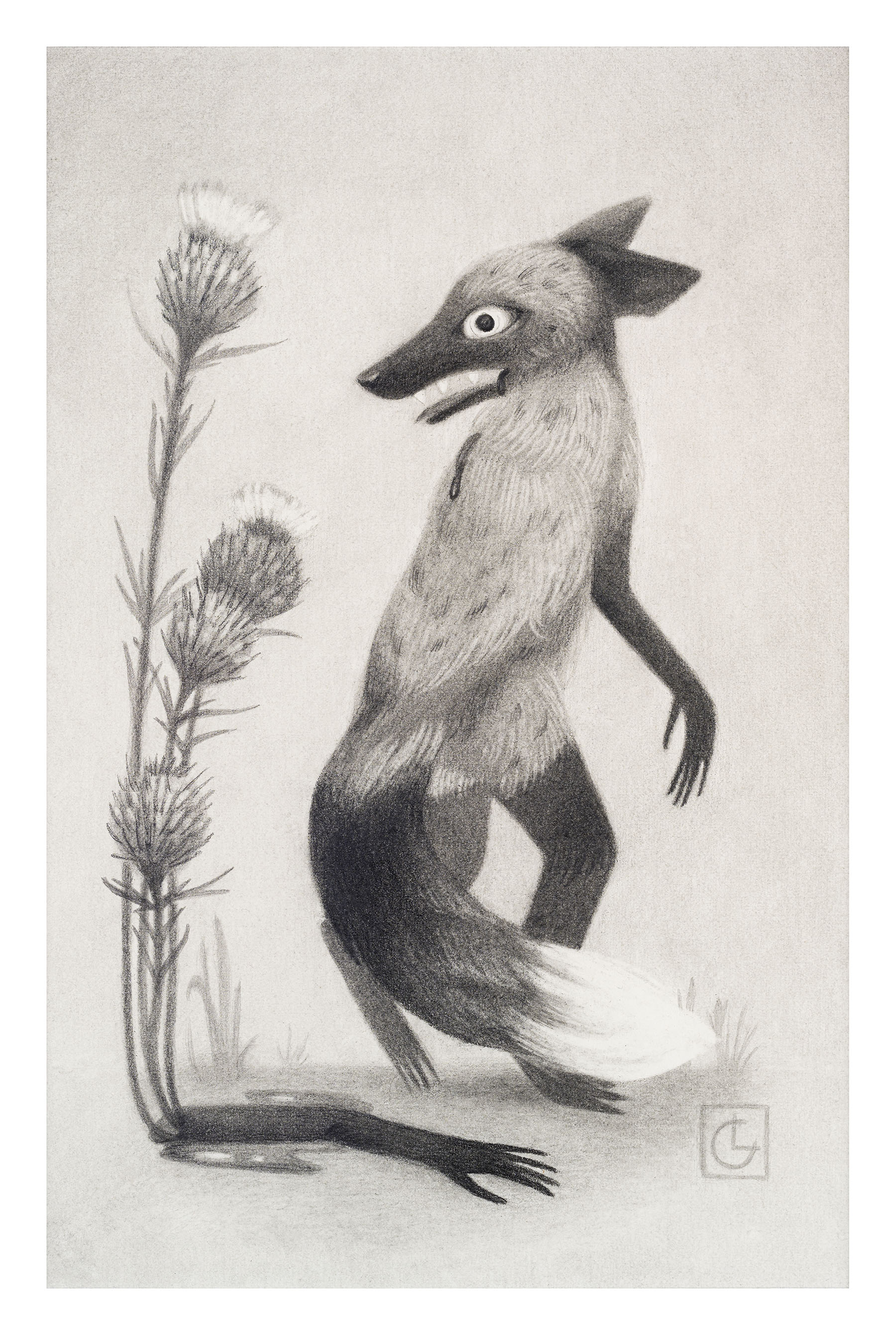
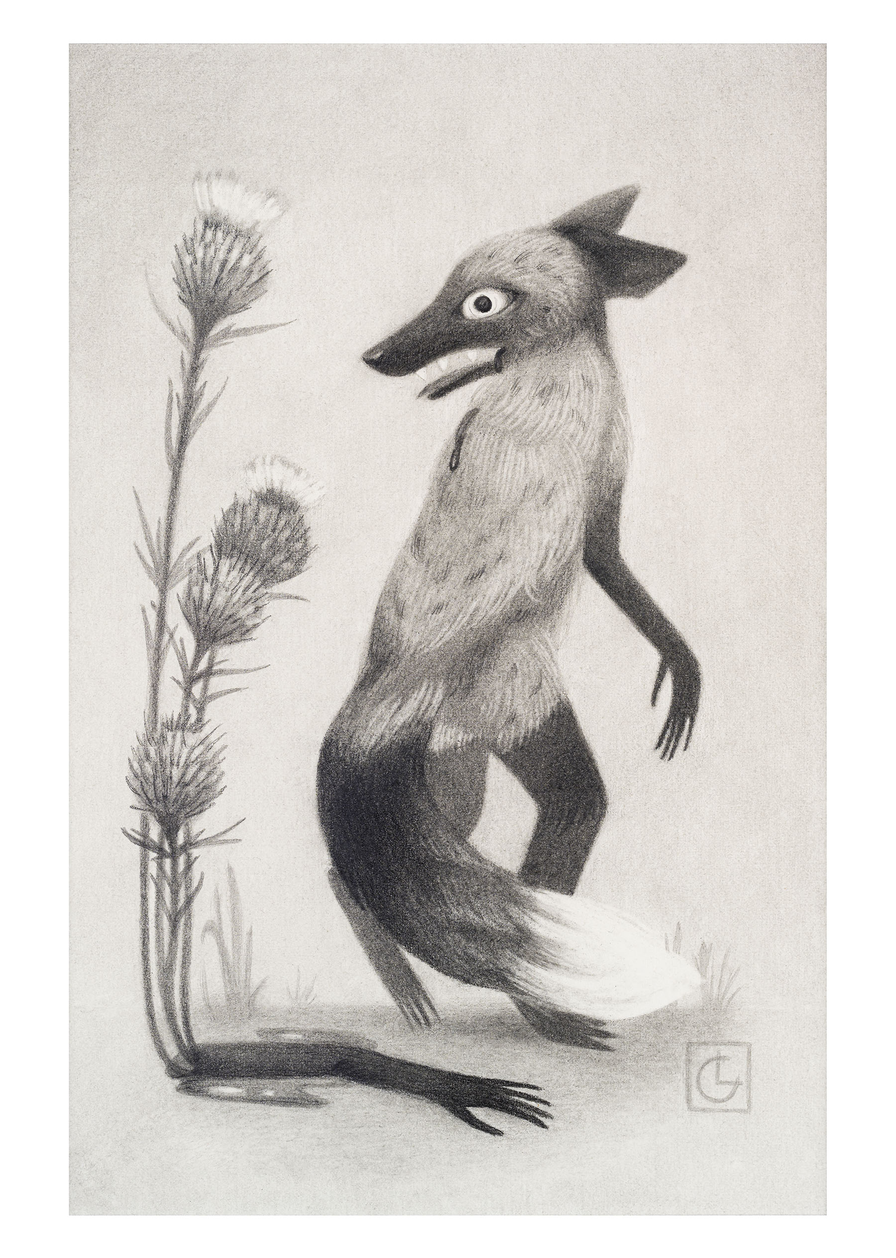
Improved slider image spacing

Changed region(s): [[0.1244, 0.1235, 0.8711, 0.926], [0.9022, 0.0309, 0.9644, 0.9877], [0.0311, 0.0309, 0.1244, 0.9877]]

diff --git a/index.html b/index.html
@@ -177,7 +177,7 @@
 
                       <div class="slide">
                         <img
-                          src="./images/catherwood-l-fare-tier2-v3.jpg"
+                          src="./images/catherwood-l-fare-tier2-v2.jpg"
                           alt=""
                           class="slide-image"
                         />
@@ -235,14 +235,14 @@
 
                       <div class="slide">
                         <img
-                          src="./images/rentas-c-seydi-tier2-website.jpg"
-                          alt="portrait of seydi"
+                          src="./images/rentas-c-juan-ruiz-tier2-website-v2.jpg"
+                          alt="portrait of juan ruiz"
                           class="slide-image"
                         />
                         <p class="artist-title">
                           <a href="https://www.rentasart.com/" target="_blank"
                             >Christian Rentas</a
-                          >,&nbsp; <i>Seydi</i>
+                          >,&nbsp; <i>Juan Ruiz</i>
                         </p>
                       </div>
 
